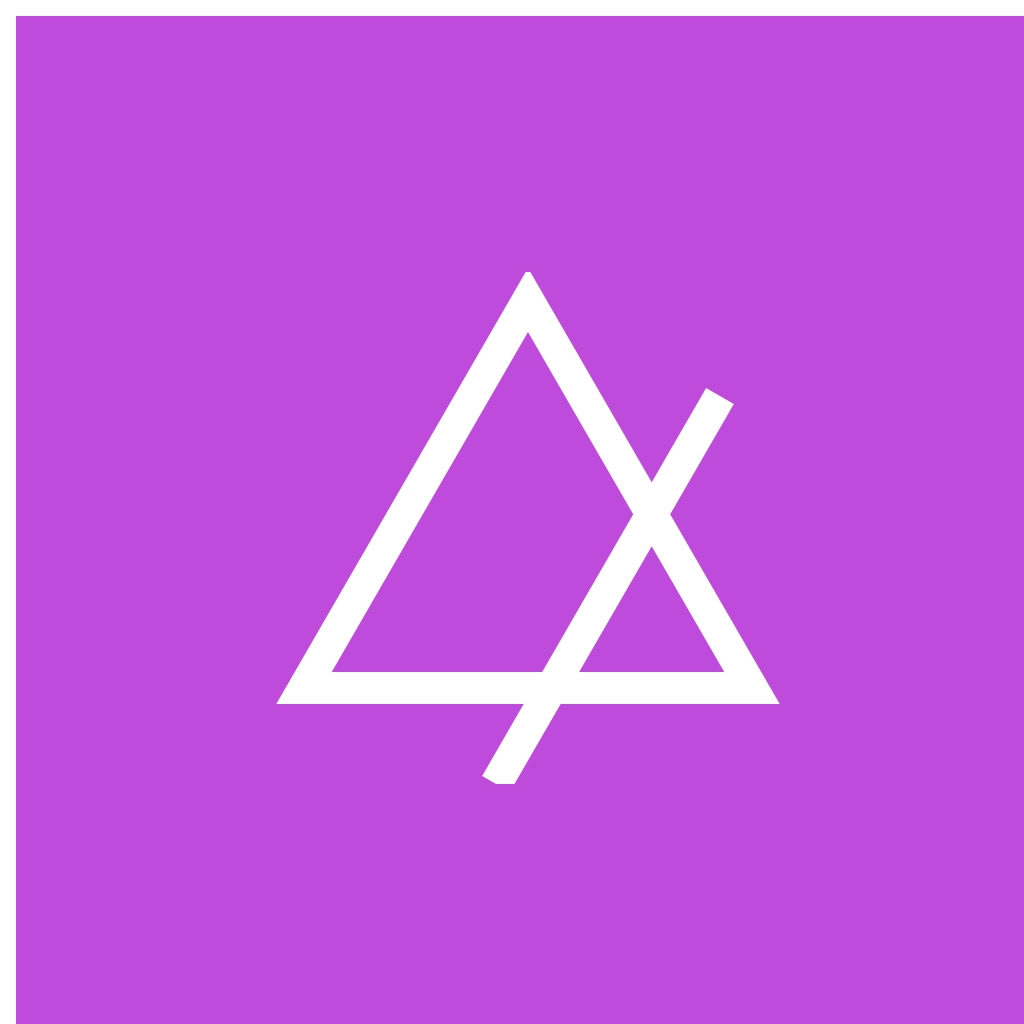
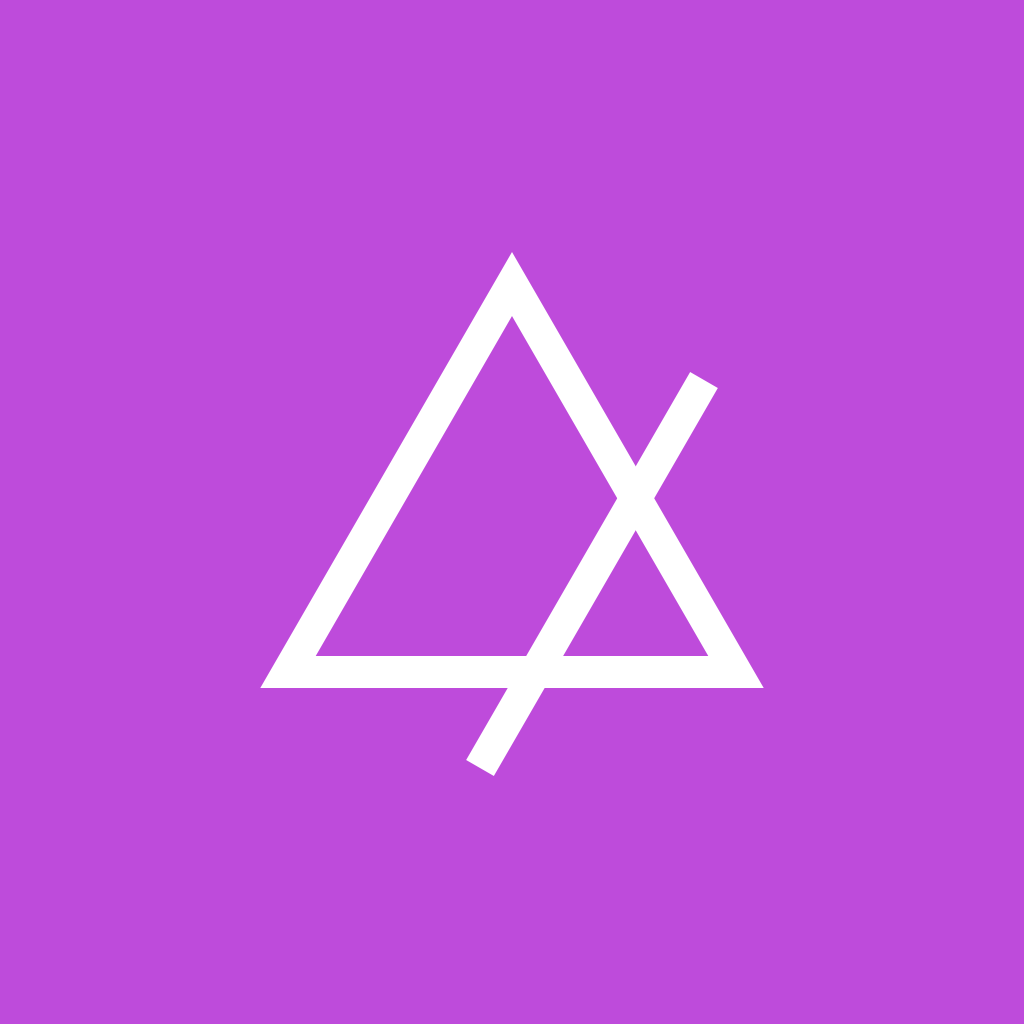
Use new card

Changed region(s): [[0.25, 0.25, 0.7812, 0.7812], [0.0, 0.0, 1.0, 1.0]]

diff --git a/docs/TriangleIcon.js b/docs/TriangleIcon.js
@@ -7,33 +7,27 @@ const sx = {
   root: {
     display: 'block',
     margin: 0,
-    color: '#fff'
+    color: '#fff',
+    // overflow: 'visible'
   }
 }
 
+const css = `body{margin:0}`
+
 const TriangleIcon = () => (
-  <div>
-    <svg
+  <Box>
+    <style dangerouslySetInnerHTML={{ __html: css }} />
+    <Box is='svg'
       viewBox='0 0 32 32'
       width='512'
       height='512'
-      style={sx.root}
-    >
-      <rect width='64' height='64' fill='#be4bdb' />
-      <g id='lumberjack' opacity='0'>
-        <rect width='64' height='64' fill='#f40' opacity='.0' />
-        <g transform='scale(.5)'>
-          <rect width='64' height='16' y='8' fill='#003' opacity={1/2} />
-          <rect width='64' height='16' y='40' fill='#003' opacity={1/2} />
-          <rect width='16' height='64' x='8' fill='#003' opacity={1/2} />
-          <rect width='16' height='64' x='40' fill='#003' opacity={1/2} />
-        </g>
-      </g>
+      style={sx.root}>
+      <rect width='32' height='32' fill='#be4bdb' />
       <g transform='translate(0 8)'>
         <Logo size={16} />
       </g>
-    </svg>
-  </div>
+    </Box>
+  </Box>
 )
 
 export default TriangleIcon

diff --git a/docs/Logo.js b/docs/Logo.js
@@ -46,6 +46,9 @@ const Logo = ({
     viewBox='0 0 16 16'
     width={size}
     height={size}
+    style={{
+      overflow: 'visible'
+    }}
     fill='none'
     stroke={color}>
     <path d={tri} />
